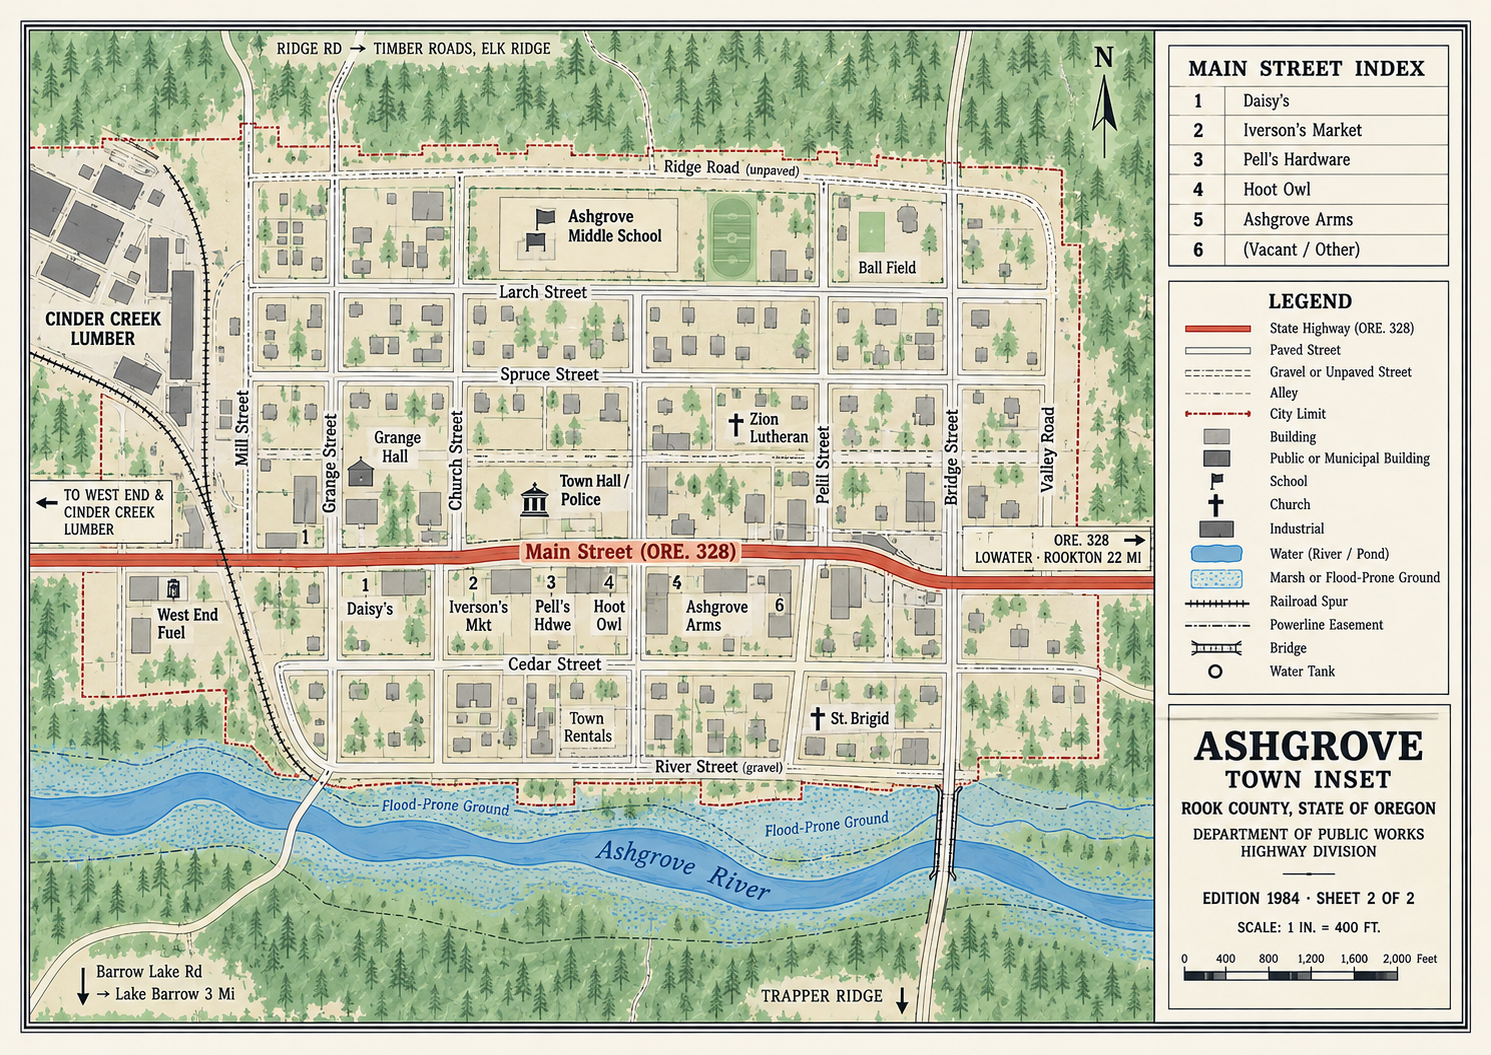
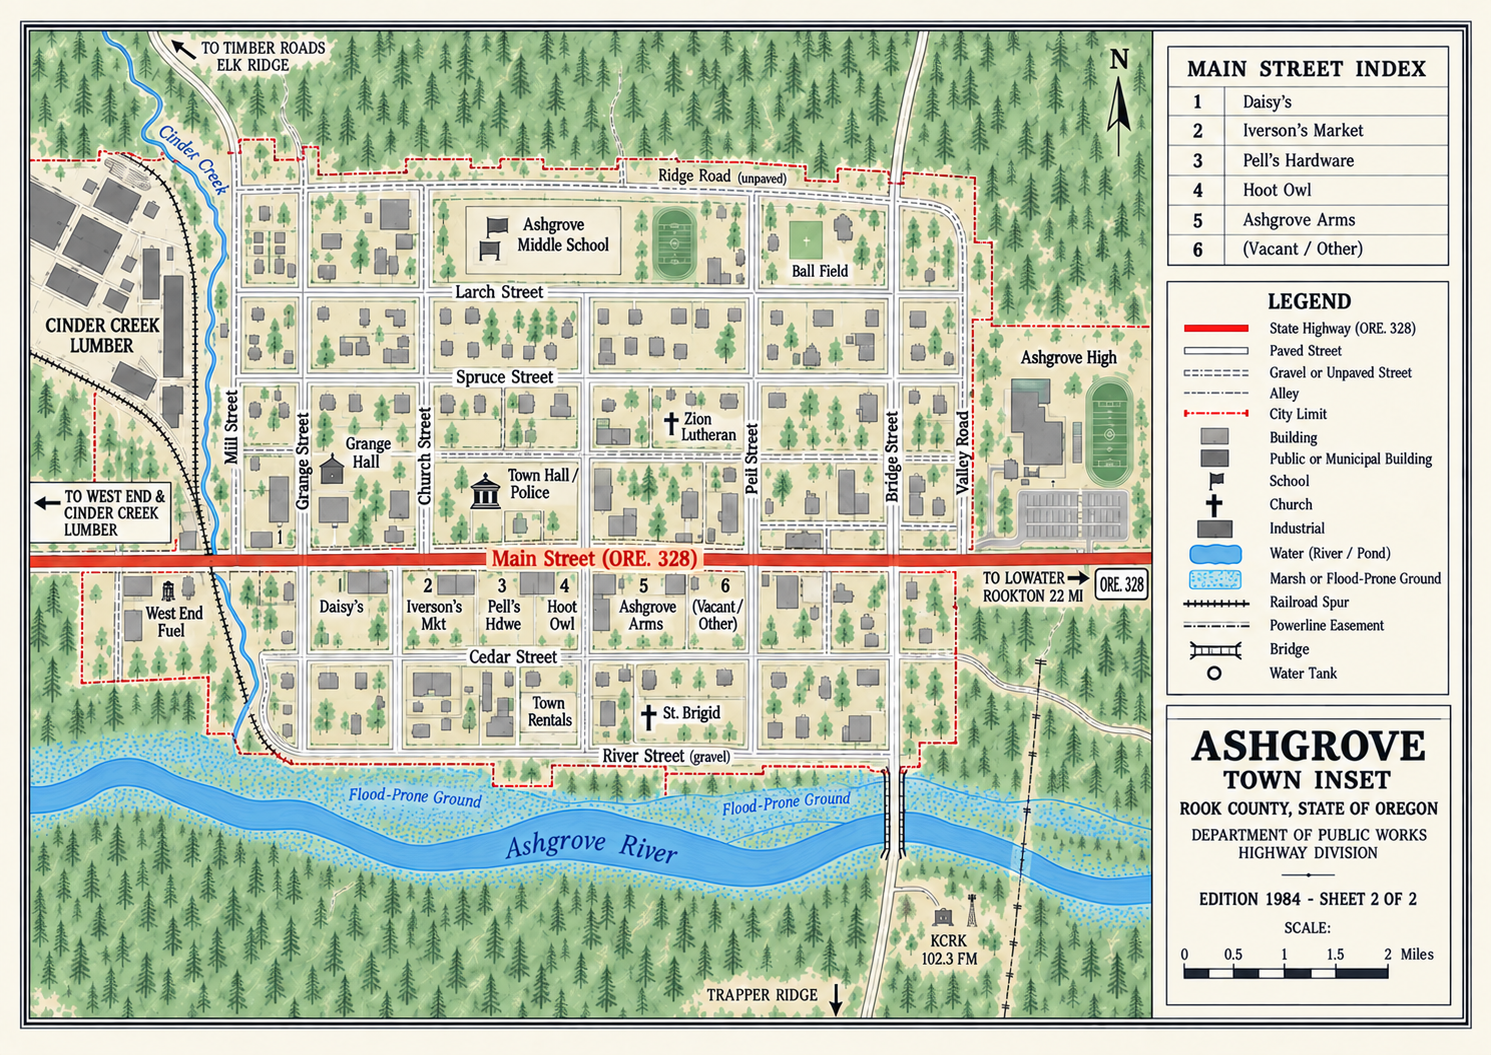
Lock the reprinted Ashgrove town inset as Sheet 2.
High school and KCRK are now on the plat, and mill, creek, and Main Street doors follow this edition rather than the first inset.

diff --git a/campaigns/no-further-action/world/locations/ashgrove.md b/campaigns/no-further-action/world/locations/ashgrove.md
@@ -12,14 +12,14 @@
   - **Lowater** (unincorporated) sits a few miles east on 328: gas, a café, a handful of houses. Valley kids and mill families treat it as the next stop, not a rival. Campaign spelling **Lowater**.
   - **Elk Creek Fork** is **14 miles** southwest of the mapped valley — a timber junction, off the Ashgrove sheet except as a mileage arrow. Not a suburb.
   - Terrain locals actually name: **Elk Ridge** (3,240 ft) northwest; **Pine Mountain** (2,880 ft) northeast; **Trapper Ridge** (2,120 ft) south across the river. Winter snow hangs on the ridges; the valley stays wet.
-  - Water: **Ashgrove River** runs west to east along the **south** edge of the town grid. **Cinder Creek** feeds the **mill pond** at West End. **Clear Creek** feeds **Lake Barrow**. Also on the county sheet: Pine, Maple, and Beaver creeks. The fishing water is **Lake Barrow** (~5 km / ~3 mi **southwest** of the grid; the 1984 sheet may print **Barrow Lake**). **Barrow Bait & Tackle** is on that lake road, not Main Street.
-  - **Street grid (town inset).** East–west, north → south: **Ridge Road** (unpaved north edge) → **Larch Street** → **Spruce Street** → **Main Street (ORE. 328)** → **Cedar Street** → **River Street** (gravel, along the north bank; flood-prone). North–south, west → east: **Mill Street** (west edge, mill and rail) → **Grange Street** → **Church Street** → **Pell Street** → **Bridge Street** (the in-town river crossing) → **Valley Road** (east edge). **Barrow Lake Rd** leaves the west end of town southwest toward the lake (3 mi) and crosses the river on its own bridge. Dashed **city limit** around the built grid; timber and Trapper Ridge sit immediately outside it.
-  - **Main Street is ORE. 328.** On the **town inset**, the numbered commercial row is the **south** side, west → east: **Daisy’s** (Grange–Church) → **Iverson’s Market** → **Pell’s Hardware** → **The Hoot Owl** → leftover **Ashgrove Arms** (Pell–Bridge) → a vacant lot east of the Arms. **West End Fuel** is the west gateway, south of Main at Mill Street, not in that numbered row. **Town Hall / Police** sits **north** of Main, west of Pell. The 1-inch county sheet is too coarse to hold this; if the two prints disagree on which curb a door occupies, **Sheet 2 wins for addresses**.
-  - Municipal house: **14 Cedar Street**, in the **Town Rentals** block south of Cedar between Church and Pell. One year then find another place. Last tenant: teacher **Helen Broome**, left 1984. Oil heat, town furniture. Lilly transferred here from New Jersey in January 1986.
-  - Faith: **Zion Lutheran** north of Main between Pell and Bridge. Tiny **St. Brigid** south of Cedar near Bridge Street, river side, visiting priest.
-  - Other labeled civic: **Cinder Creek Grange Hall** on Grange Street north of Main. **Ashgrove Middle** north-central between Larch and Ridge, with a yard. A **ball field** and **town water tank** at the northeast corner (Ridge and Valley). **Cinder Creek Lumber** sheds and the dead **rail spur** occupy the west edge at Mill Street.
-  - Schools are a **valley district**. **West End Middle** at the mill camp (half empty; politics will not close it). **Ashgrove High** — one campus for the valley, east toward Lowater; a few hundred kids, Friday night pulls West End and Lowater in. Weak or missing on both 1984 sheets; still true.
-  - Radio: **KCRK 102.3 FM** (Abigail Carr), south of the river on the Bridge Street / Trapper Ridge side of town. Frequency and calls authored after session one. Ordinary **powerline easement** runs north–south on the **east** side of the grid and continues south across the river — public-map utilities, not a labeled compound.
+  - Water: **Ashgrove River** runs west to east along the **south** edge of the town grid. On the town inset, **Cinder Creek** runs **north–south along the west** edge of the grid, then the mill pond at West End. **Clear Creek** feeds **Lake Barrow**. Also on the county sheet: Pine, Maple, and Beaver creeks. The fishing water is **Lake Barrow** (~5 km / ~3 mi **southwest** of the grid; the 1984 sheet may print **Barrow Lake**). **Barrow Bait & Tackle** is on that lake road, not Main Street.
+  - **Street grid (town inset).** East–west, north → south: **Ridge Road** (unpaved north edge) → **Larch Street** → **Spruce Street** → **Main Street (ORE. 328)** → **Cedar Street** → **River Street** (gravel, along the north bank; flood-prone). North–south, west → east: **Mill Street** → **Grange Street** → **Church Street** → **Pell Street** → **Bridge Street** (in-town river crossing) → **Valley Road** (east city-limit street). River bridges at **Mill Street** and **Bridge Street**. Dashed **city limit** around the built grid; mill and creek immediately west, high school immediately east, Trapper Ridge south of the river.
+  - **Main Street is ORE. 328.** Numbered commercial row on the **south** side, west → east, **Church Street to Bridge Street:** **Daisy’s** → **Iverson’s Market** → **Pell’s Hardware** → **The Hoot Owl** → leftover **Ashgrove Arms** → a vacant lot. **West End Fuel** is west of Mill Street, south of Main, outside that numbered row. **Town Hall / Police** sits **north** of Main, **Church–Pell**, between Spruce and Main. If the county sheet and Sheet 2 disagree on which curb a door occupies, **Sheet 2 wins for addresses**.
+  - Municipal house: **14 Cedar Street**, in the **Town Rentals** block on Cedar between Church and Pell. One year then find another place. Last tenant: teacher **Helen Broome**, left 1984. Oil heat, town furniture. Lilly transferred here from New Jersey in January 1986.
+  - Faith: **Zion Lutheran** north of Main, Pell–Bridge (between Spruce and Main). Tiny **St. Brigid** on **River Street**, south of Cedar, visiting priest.
+  - Other labeled civic: **Cinder Creek Grange Hall** on Grange Street between Larch and Spruce. **Ashgrove Middle** between Larch and Ridge, north-central, with a yard. A **ball field** north of Larch, east of the middle school. **Cinder Creek Lumber** sits **west of the city limit, across Cinder Creek**.
+  - Schools are a **valley district**. **West End Middle** at the mill camp (half empty; politics will not close it). **Ashgrove High** is **east of Valley Road, outside the city-limit dash**, toward Lowater: school building plus a football/track field. Friday night pulls West End and Lowater in.
+  - Radio: **KCRK 102.3 FM** is labeled on Sheet 2 **south of the Ashgrove River**, east of the Bridge Street continuation, on the **Trapper Ridge** side. Frequency and calls authored after session one. Ordinary **powerline easement** runs north–south on the **east** side of the grid and continues south of the river — public-map utilities, not a labeled compound.
   - Civic: Mayor **Art Lindstrom** (~58). Leftover mill pride. Wants the town to look fine on 328. Likes quiet headlines. Not Concordance. County politics live in **Rookton**.
   - Ashgrove PD covers the **patrol tint** on the 1984 sheet: town grid, West End, the lake road, and 328 out through Lowater. Outside that line: **Rook County Sheriff**. See [ashgrove-precinct.md](ashgrove-precinct.md).
 - **Current state:** Frank Loman is a local missing-person file the chief would rather keep small. Two unfamiliar men and an out-of-county truck are the kind of thing people notice.
@@ -52,12 +52,12 @@ Visual source: [`ashgrove_map_1984.png`](ashgrove_map_1984.png). A later map mus
 
 Visual source: [`ashgrove_town_map_1984.png`](ashgrove_town_map_1984.png). Sheet 2 of 2. Copy **this** plat, not the unused street-prompt if they fight. North at top. Same agency and 1984 edition as the county sheet. Scale on the PNG is town-plat, not 1 inch = 1 mile.
 
-**Streets.** E–W north→south: Ridge Road (unpaved) · Larch · Spruce · Main / ORE. 328 · Cedar · River Street (gravel, flood-prone). N–S west→east: Mill · Grange · Church · Pell · Bridge · Valley Road. Two river bridges: Barrow Lake Rd (southwest) and Bridge Street (in-town).
+**Streets.** E–W north→south: Ridge Road (unpaved) · Larch · Spruce · Main / ORE. 328 · Cedar · River Street (gravel, flood-prone). N–S west→east: Mill · Grange · Church · Pell · Bridge · Valley Road. River bridges at Mill Street and Bridge Street. Cinder Creek along the west edge of the grid.
 
-**South side of Main, west → east (numbered index):** Daisy’s · Iverson’s Market · Pell’s Hardware · Hoot Owl · Ashgrove Arms · vacant lot. **West End Fuel** west gateway, south of Main at Mill. **Town Hall / Police** north of Main, west of Pell.
+**South side of Main, west → east (numbered index, Church to Bridge):** Daisy’s · Iverson’s Market · Pell’s Hardware · Hoot Owl · Ashgrove Arms · vacant lot. **West End Fuel** west of Mill, south of Main. **Town Hall / Police** north of Main, Church–Pell, between Spruce and Main.
 
-**Other lots on this PNG:** Grange Hall on Grange north of Main. Ashgrove Middle between Larch and Ridge, north-central. Ball field and water tank, Ridge and Valley (NE). Zion Lutheran north of Main, Pell–Bridge. St. Brigid south of Cedar near Bridge. Town Rentals south of Cedar, Church–Pell (14 Cedar is a house in that block, not a map number). Cinder Creek Lumber and rail spur at the west edge. Powerline easement north–south on the east side, continuing south of the river. City-limit dash around the grid. Edge notes: West End / mill west; Lake Barrow 3 mi southwest; Lowater / Rookton 22 mi east; Elk Ridge / timber north; Trapper Ridge south.
+**Other lots on this PNG:** Grange Hall on Grange, Larch–Spruce. Ashgrove Middle between Larch and Ridge, north-central, with a yard. Ball field north of Larch, east of the middle school. Zion Lutheran north of Main, Pell–Bridge. St. Brigid on River Street, south of Cedar. Town Rentals on Cedar, Church–Pell (14 Cedar is a house in that block, not a map number). **Cinder Creek Lumber** west of the city limit, across Cinder Creek. **Ashgrove High** east of Valley Road, outside the city-limit dash (building + football/track). **KCRK 102.3 FM** south of the river, east of the Bridge Street road, Trapper Ridge. Powerline easement north–south on the east side, continuing south of the river. City-limit dash around the grid.
 
-**True in files, missing or weak on this PNG — add if reprinting:** Ashgrove High (east / Valley Road toward Lowater), KCRK 102.3 FM (south of the river off Bridge Street), Barrow Bait & Tackle (off-sheet on the lake road), house number 14 on Cedar.
+**True in files, missing or weak on this PNG — add if reprinting:** Barrow Bait & Tackle (off-sheet on the lake road), house number 14 on Cedar. Do not drop High or KCRK; they are on this edition.
 
 **Never draw:** inland tower compound, Concordance, case pins, highlighting 14 Cedar.

diff --git a/campaigns/no-further-action/world/locations/ashgrove-precinct.md b/campaigns/no-further-action/world/locations/ashgrove-precinct.md
@@ -5,7 +5,7 @@
 - **Function:** Lilly’s workplace. Small-town PD in a building that remembers a richer mill town.
 - **First impression:** Old town hall, one floor, too many rooms. Cloakroom and floor wax. A radio room that still sounds like 1958. Empty offices used for dead paper.
 - **Persistent truths:**
-  - The building is the **former town hall**, one floor, raised in the **1950s** when Cinder Creek money made Ashgrove look complete. **North of Main / ORE. 328, west of Pell Street** (Sheet 2). Enough rooms for **three times** the 1986 headcount. **Two cells.** **Radio room.** An **old forensic lab** (period gear, not a modern unit). Real forensics and the sheriff live in **Rookton** (~22 mi east). Kearney’s carbon process, envelopes, a cork board, the **1984 Rook County highway sheet**, and the **Ashgrove town inset** still live in the extra rooms. Outside the county sheet’s patrol tint: **Rook County Sheriff**.
+  - The building is the **former town hall**, one floor, raised in the **1950s** when Cinder Creek money made Ashgrove look complete. **North of Main / ORE. 328, Church–Pell**, between Spruce and Main (Sheet 2). Enough rooms for **three times** the 1986 headcount. **Two cells.** **Radio room.** An **old forensic lab** (period gear, not a modern unit). Real forensics and the sheriff live in **Rookton** (~22 mi east). Kearney’s carbon process, envelopes, a cork board, the **1984 Rook County highway sheet**, and the **Ashgrove town inset** still live in the extra rooms. Outside the county sheet’s patrol tint: **Rook County Sheriff**.
   - **1986 chain:** Chief Whitley; **Sgt. Tom Doyle** (sergeant-detective, ~44); detective Lilly Dawson (new); secretary **Nancy Iverson**.
   - **Day patrol (decent, not in on Whitley’s graft):** **Don Halvorsen** (53) and **Andy Foyle** (~34). They complain about the night logs and drink Nancy’s coffee. Hiring is rare; Andy is only “junior” relative to Don.
   - **Night patrol:** **Earl Voss** (56) sleeps because “nothing happens after eleven.” **Kevin Alder** (31) actually runs the beat. Town knows. Whitley does not care if headlines stay down. Kevin was the last badge issued before Lilly.
@@ -18,4 +18,4 @@
 - **Secrets:** GM — Whitley’s quiet is partly bought (local graft, not Concordance). Ordinary small-town self-protection remains true on the surface. Earl sleeping is an open secret, not a mystery.
 - **How it changes if ignored:** The precinct’s default is **no further action**.
 - **Historical/background sources:** none
-- **Maps/handouts:** [`ashgrove_town_map_1984.png`](ashgrove_town_map_1984.png) — Town Hall / Police north of Main, west of Pell. Valley context: [`ashgrove_map_1984.png`](ashgrove_map_1984.png). The wall copy in 1986 is the county sheet, used; the inset is the street plat.
+- **Maps/handouts:** [`ashgrove_town_map_1984.png`](ashgrove_town_map_1984.png) — Town Hall / Police north of Main, Church–Pell. Valley context: [`ashgrove_map_1984.png`](ashgrove_map_1984.png). The wall copy in 1986 is the county sheet, used; the inset is the street plat.

diff --git a/campaigns/no-further-action/world/locations/cinder-creek-lumber.md b/campaigns/no-further-action/world/locations/cinder-creek-lumber.md
@@ -1,7 +1,7 @@
 # Cinder Creek Lumber (mill yard)
 
 - **Canon status:** authored as true for this table; not yet required by play
-- **Region/time period:** West End mill camp, immediately west of the Ashgrove grid on ORE. 328; mill pond and a rail spur on the 1984 sheet; mill closed ~1982–84; play from January 1986
+- **Region/time period:** West End mill camp, **west of the Ashgrove city limit across Cinder Creek**; mill pond on the 1984 sheets; mill closed ~1982–84; play from January 1986
 - **Function:** Dead employer that still owns the skyline. Night-shift geography. West End Middle sits in the old mill-camp orbit.
 - **First impression:** Climate / See / Hear / Feel — stacks against rain, chain, puddles in a parking lot sized for a shift that does not come, a flashlight sometimes, a cruiser sometimes.
 - **Persistent truths:**
@@ -13,4 +13,4 @@
 - **Secrets:** none established as Concordance. Do not put the consortium in the mill office unless a later night proves a reason.
 - **How it changes if ignored:** The yard stays dark. Len still walks it.
 - **Historical/background sources:** none
-- **Maps/handouts:** [`ashgrove_map_1984.png`](ashgrove_map_1984.png) — West End on the county sheet. [`ashgrove_town_map_1984.png`](ashgrove_town_map_1984.png) — mill and rail spur at Mill Street, west edge of the town grid.
+- **Maps/handouts:** [`ashgrove_map_1984.png`](ashgrove_map_1984.png) — West End on the county sheet. [`ashgrove_town_map_1984.png`](ashgrove_town_map_1984.png) — mill west of the city-limit dash, across Cinder Creek.

diff --git a/campaigns/no-further-action/world/locations/daisys.md b/campaigns/no-further-action/world/locations/daisys.md
@@ -1,7 +1,7 @@
 # Daisy’s
 
 - **Canon status:** authored as true for this table; not yet required by play
-- **Region/time period:** South side of Main Street / ORE. 328, between Grange Street and Church Street; January 1986–
+- **Region/time period:** South side of Main Street / ORE. 328, first numbered door east of Church Street; January 1986–
 - **Function:** Town living room. Breakfast, night-shift coffee, Walt Kearney’s booth.
 - **First impression:** Climate / See / Hear / Feel — damp coats, a Cinder Creek clock, pie under a dome, the register bell, coffee that has been on the burner too long.
 - **Persistent truths:**
@@ -14,4 +14,4 @@
 - **Secrets:** none established
 - **How it changes if ignored:** Coffee still gets poured. Walt still sits.
 - **Historical/background sources:** none
-- **Maps/handouts:** [`ashgrove_town_map_1984.png`](ashgrove_town_map_1984.png) — south side of Main, Grange–Church.
+- **Maps/handouts:** [`ashgrove_town_map_1984.png`](ashgrove_town_map_1984.png) — south side of Main, numbered index #1, Church Street toward Pell.

diff --git a/campaigns/no-further-action/world/npcs/abigail-carr.md b/campaigns/no-further-action/world/npcs/abigail-carr.md
@@ -2,7 +2,7 @@
 
 - **Canon status:** established as the caller at the end of January 1986; personality beyond that is **thin**
 - **Visibility:** player-known (the call); her full motives unknown
-- **Role:** Local radio host / DJ at **KCRK 102.3 FM** (frequency and calls authored after session one for ongoing continuity)
+- **Role:** Local radio host / DJ at **KCRK 102.3 FM**, south of the Ashgrove River off Bridge Street (Sheet 2). Frequency and calls authored after session one for ongoing continuity
 - **Current objective:** Unknown. Established act: she called Lilly because the station recorded something unusual at the time Frank disappeared.
 - **Fear:** unknown
 - **Leverage/resources:** KCRK 102.3, the recording, airtime, whoever else heard the log.
